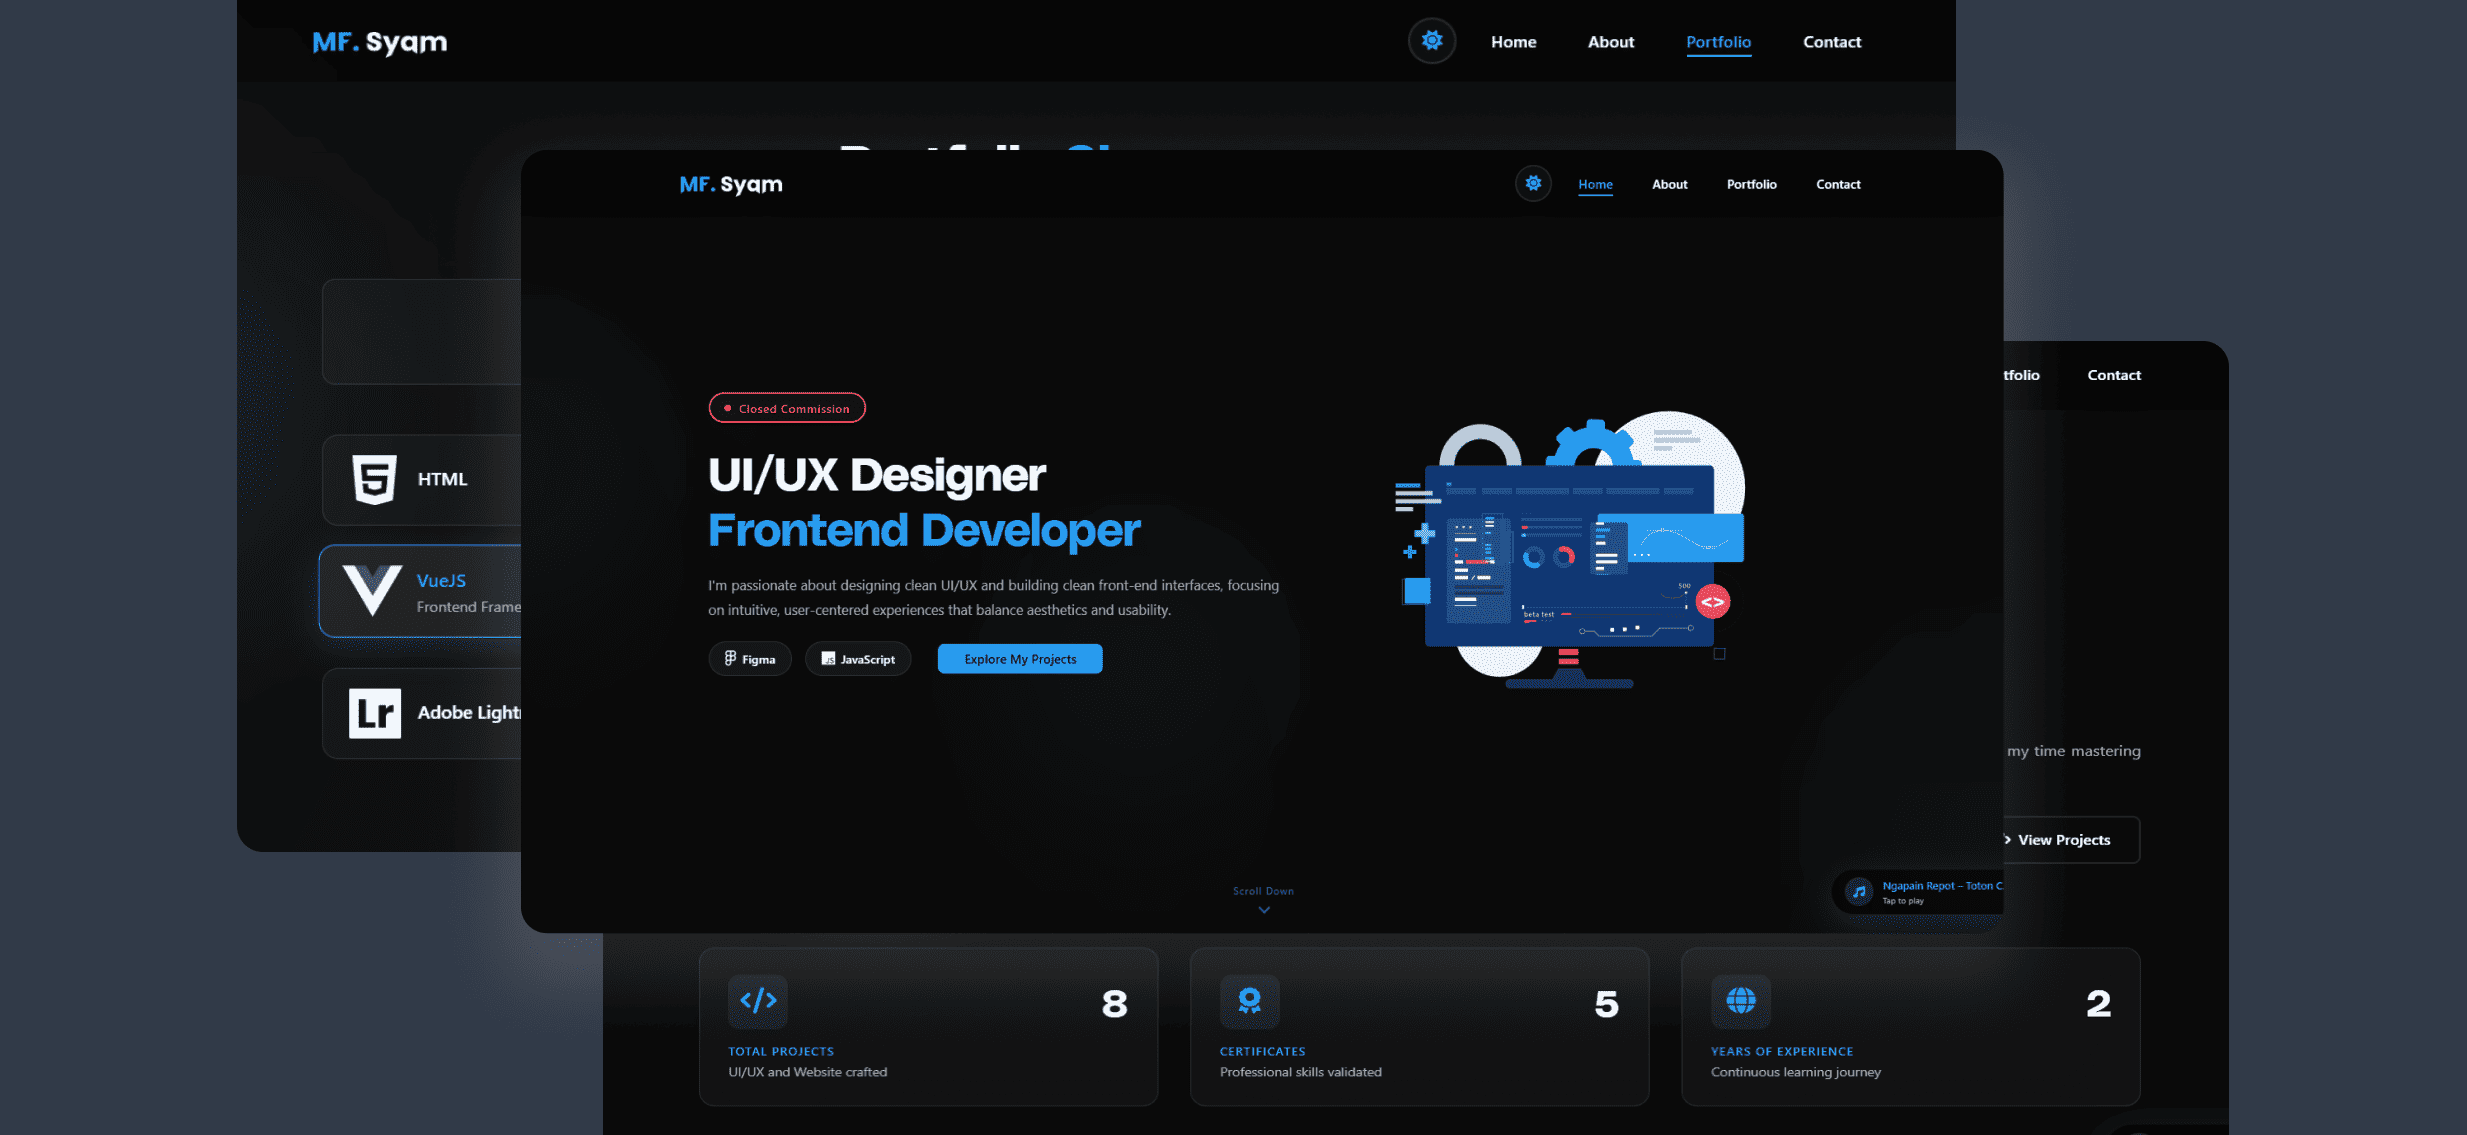
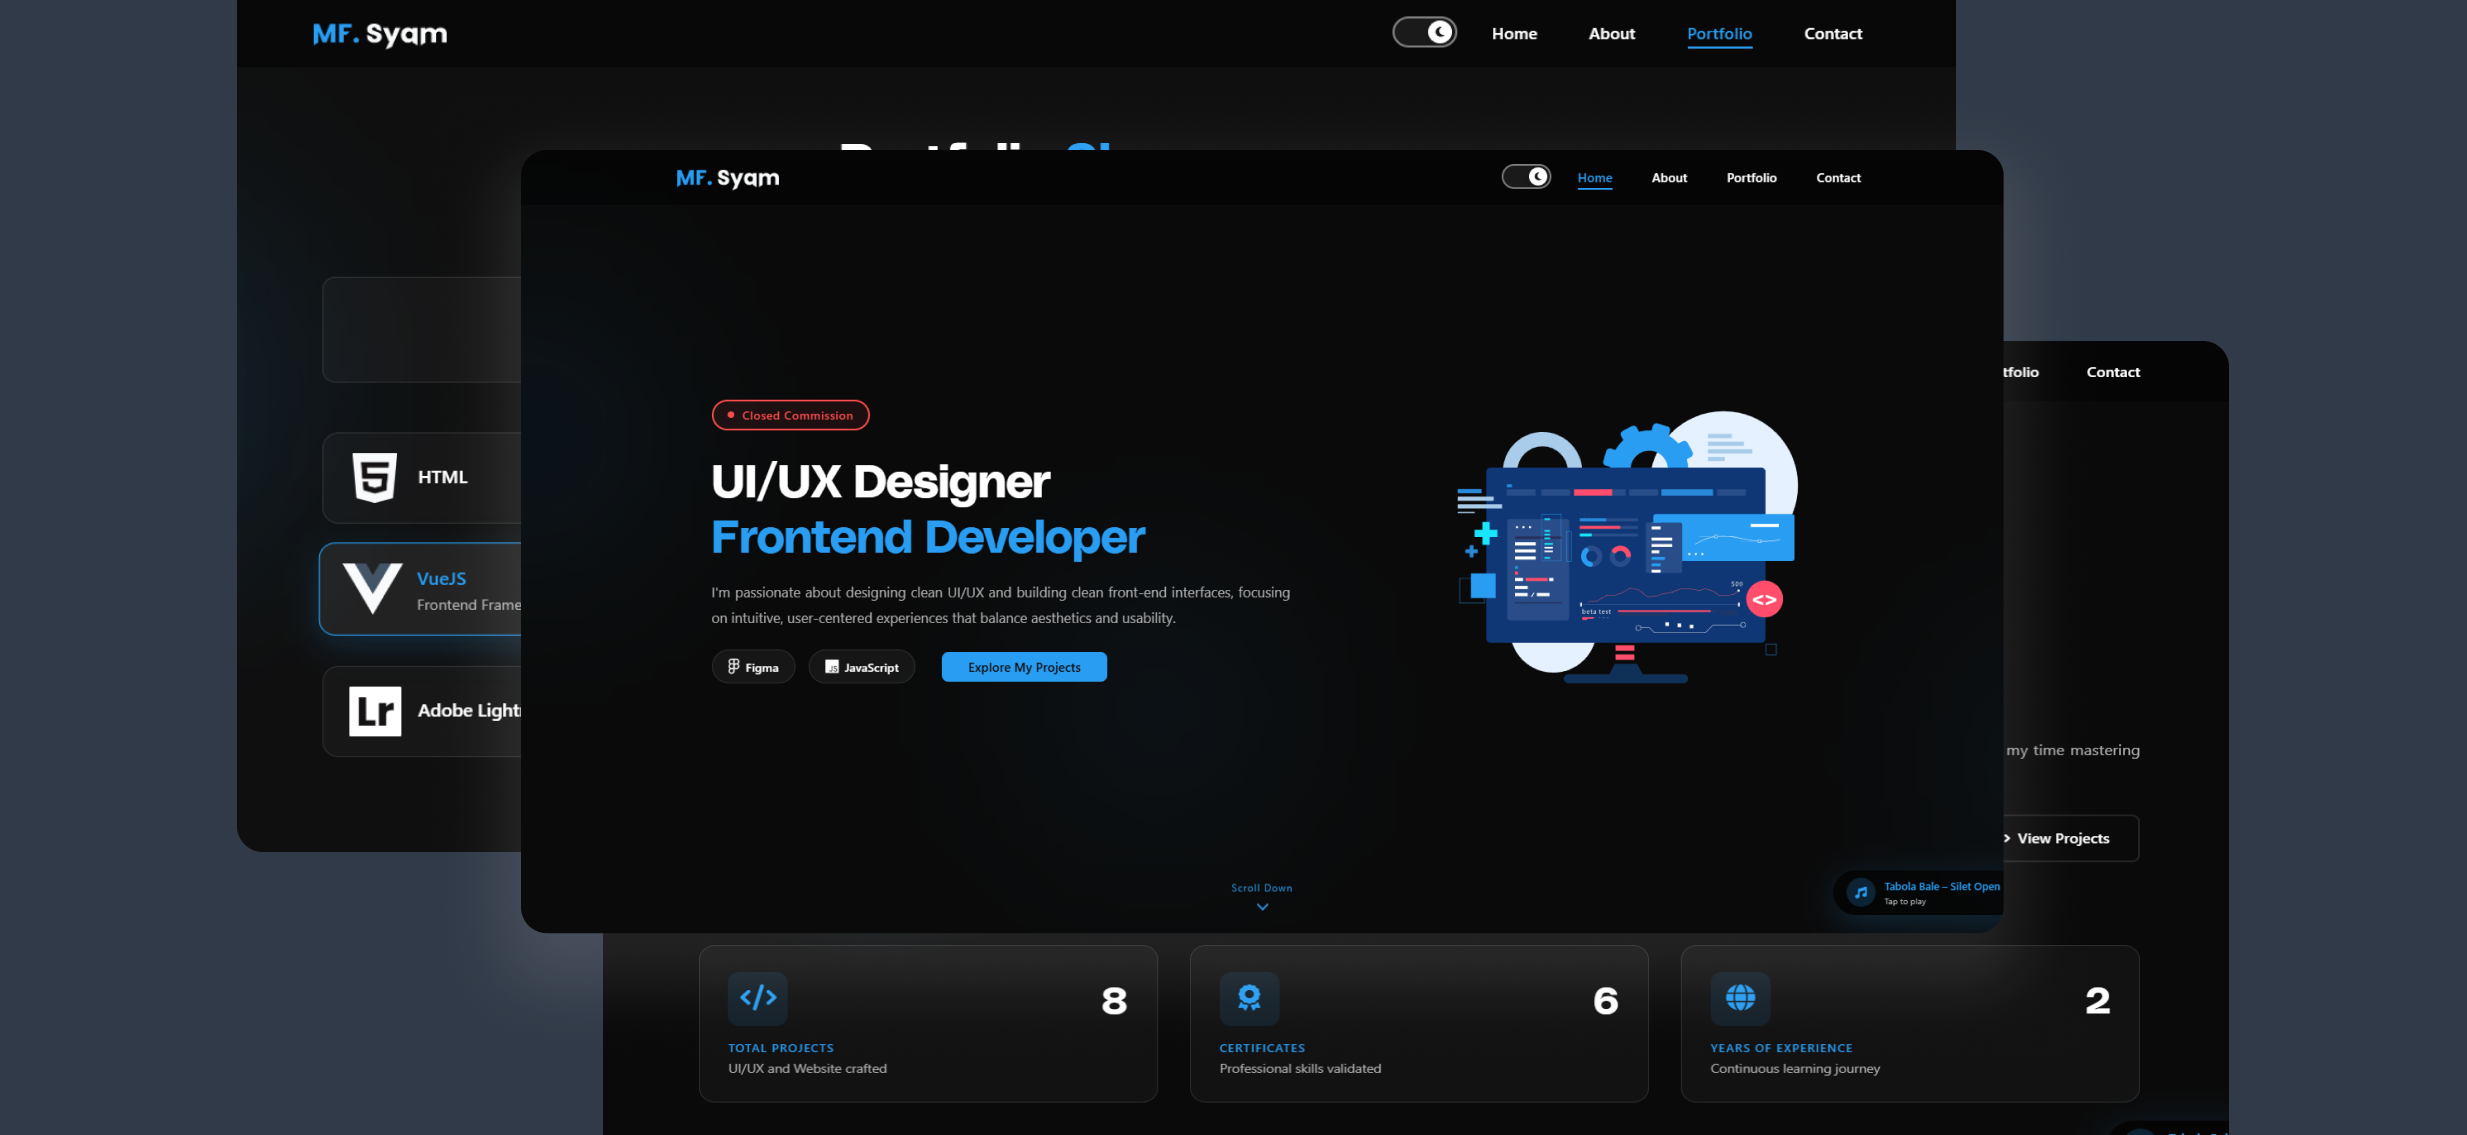
a little extra

diff --git a/public/style.css b/public/style.css
@@ -664,7 +664,7 @@ body.dark-mode .mobile-menu {
     cursor: pointer;
 }
 
-.btn-cv {
+.btn-port {
     background: var(--accent-color);
     color: var(--bg-primary);
     padding: 14px 32px;
@@ -676,7 +676,7 @@ body.dark-mode .mobile-menu {
     border: none;
 }
 
-.btn-cv:hover {
+.btn-port:hover {
     background: var(--accent-hover);
     transform: translateY(-2px);
     box-shadow: 0 4px 12px var(--shadow-color);
@@ -2498,7 +2498,7 @@ body.dark-mode .footer-bottom p {
         width: 100%;
     }
 
-    .btn-cv {
+    .btn-port {
         width: 100%;
         text-align: center;
     }
@@ -2672,7 +2672,9 @@ body.dark-mode .footer-bottom p {
     .hero-image {
         order: 2;
         display: flex;
-        margin-bottom: 1rem;
+        margin-bottom: 4rem;
+        padding-left: 0%;
+        width: 100%;
     }
 
     .profile-img-wrapper {
@@ -2715,9 +2717,13 @@ body.dark-mode .footer-bottom p {
         width: 100%;
     }
 
-    .btn-cv {
+    .btn-port {
         width: 100%;
         text-align: center;
+    }
+
+    .scroll-indicator {
+        display: none;
     }
 
     .about {

diff --git a/public/index.html b/public/index.html
@@ -120,7 +120,7 @@
                     </div>
 
                     <div class="hero-buttons">
-                        <a href="#portfolio" onclick="scrollToSection('portfolio'); return false;" class="btn btn-cv">Explore My Projects</a>
+                        <a href="#portfolio" onclick="scrollToSection('portfolio'); return false;" class="btn btn-port">Explore My Projects</a>
                     </div>
                 </div>
             </div>
@@ -191,7 +191,7 @@
                         <div class="stat-icon">
                             <i class="fas fa-award"></i>
                         </div>
-                        <div class="stat-number">5</div>
+                        <div class="stat-number">6</div>
                     </div>
                     <div class="stat-bottom">
                         <div class="stat-info">

diff --git a/public/script.js b/public/script.js
@@ -548,6 +548,12 @@ if (techstackDisplay) {
 
 const certificates = [
     {
+        title: "Figma for UI/UX Design",
+        issuer: "MySkill - Skill Specialization",
+        date: "2026",
+        images: ["assets/certificates/figmaforui-uxdesign.jpg"]
+    },
+    {
         title: "Fundamental UI Design",
         issuer: "Coding Studio",
         date: "2025",
